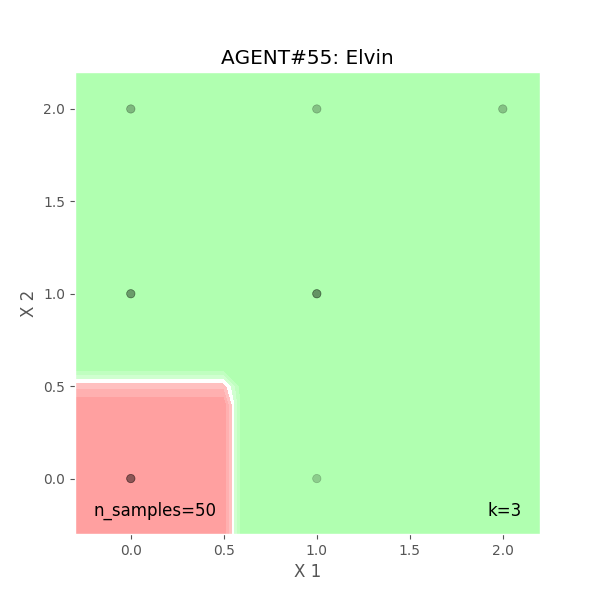
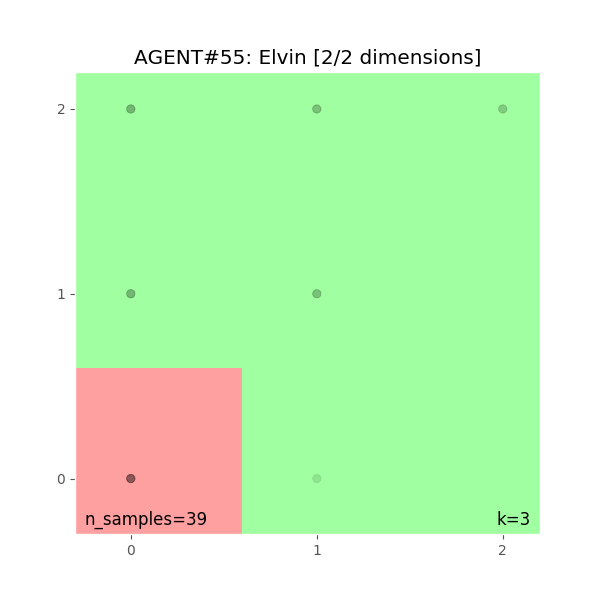
Brain maps on sidebar for all agents

diff --git a/main.py b/main.py
@@ -2,6 +2,8 @@ import pygame
 import random
 import csv
 import agent
+import numpy as np
+import sklearn
 
 names = []
 
@@ -22,17 +24,20 @@ class Window:
 
 		# init display
 		self.display_width = 32*30
-		self.display_height = 32*20
-		self.display = pygame.display.set_mode((self.display_width, self.display_height))
+		self.display_height = 32*30
+		self.side_display_width = 32*20
+		self.side_display_height = 32*0
+		self.display = pygame.display.set_mode((self.display_width+self.side_display_width, self.display_height+self.side_display_height))
 
 		# init misc
 		self.clock = pygame.time.Clock()
-		self.world_speed = 300
+		self.world_speed = 20
 		self.grid_size = 32
+		self.total_steps = 0
 
 		# init focus
-		self.focus = 55 # default = None
-		self.focus_visualize_frequency = 3 # how many steps between
+		self.focus = None # default = None
+		self.focus_visualize_frequency = 5 # how many steps between
 		self.focus_visualize_time = 1 # in seconds
 
 		# init colors
@@ -44,16 +49,21 @@ class Window:
 		self.BLUE = (0, 0, 255)
 		self.YELLOW = (255, 255, 0)
 
+		self.LT_RED = (255, 50, 50)
+		self.LT_GREEN = (50, 255, 50)
+
 		# init font
 		self.FNT_SMALL = pygame.font.SysFont("arial", 11)
+		self.FNT_MEDIUM = pygame.font.SysFont("arial", 14)
 
 		# init dicts
 		self.colors = {0: self.RED, 1: self.GREEN, 2: self.BLUE}
 		self.shapes = {0: "square", 1: "circle", 2: "triangle"}
 		self.sentiments = {-1: "negative", 0: "neutral", 1: "positive"}
+		self.sentiment_colors = {-1: self.LT_RED, 0: self.GRAY, 1: self.LT_GREEN}
 
 		# init agents
-		starting_agents = 64
+		starting_agents = 32
 		self.agents = []
 		for i in range(starting_agents):
 			self.create_agent(i)
@@ -105,14 +115,11 @@ class Window:
 
 					# learn from experiences
 					if brain.total_experiences() > 3:
-						try:
-							brain.learn()
+						brain.learn()
 
-							if agent[0] == self.focus and brain.total_experiences() % self.focus_visualize_frequency == 0:
-								# self.check_agent(agent[0])
-								brain.visualize("AGENT#{}: {}".format(agent[0], agent[1]), time_limit=self.focus_visualize_time)
-						except:
-							pass
+						if agent[0] == self.focus and brain.total_experiences() % self.focus_visualize_frequency == 0:
+							# self.check_agent(agent[0])
+							brain.visualize("AGENT#{}: {}".format(agent[0], agent[1]), time_limit=self.focus_visualize_time)
 	
 			# percieve area
 			potential_cells = eye.look(agent[4], agent[5])
@@ -131,8 +138,11 @@ class Window:
 			# draw agent
 			self.draw_agent(agent[4], agent[5], agent[2], agent[3], agent[0])
 
+		self.display_sidebar(self.display_width+16, 8)
+
 		pygame.display.update()
 		self.clock.tick(self.world_speed)
+		self.total_steps += 1
 
 		pygame.display.set_caption("Seed: {}, FPS: {}".format(seed, round(self.clock.get_fps(),2)))
 
@@ -180,8 +190,9 @@ class Window:
 		eye = agent.Eye()
 		brain = agent.Brain()
 		muscle = agent.Muscle()
+		brain_map = [[0,0,0],[0,0,0],[0,0,0]]
 
-		self.agents.append([number, name, color, shape, start_x, start_y, eye, brain, muscle])
+		self.agents.append([number, name, color, shape, start_x, start_y, eye, brain, muscle, brain_map])
 
 		print("[AGENT#{}] Created! number={}, name={}, color={}, shape={}({}), pos=({}, {})".format(number, number, name, color, shape, self.shapes[shape], start_x, start_y))
 
@@ -209,6 +220,54 @@ class Window:
 		print("Shape: {}".format(self.shapes[agent[3]]))
 		print("Pos: ({}, {})".format(agent[4], agent[5]))
 		print("Experiences: {}".format(agent[7].total_experiences()))
+
+	def display_sidebar(self, x, y):
+		basic_info = self.FNT_MEDIUM.render("Steps: {}".format(self.total_steps), True, self.BLACK)
+		self.display.blit(basic_info, (x,y))
+
+		# brain maps
+		columns = 15
+		rows = (len(self.agents) // columns)+1
+		size = 36
+		num = 0
+		for yy in range(rows):
+			for xx in range(columns):
+
+				if num <= len(self.agents)-1:
+					x1 = x+xx*(size+4)
+					y1 = y+yy*(size+16)+48
+
+					# draw number
+					name = self.FNT_SMALL.render("#{}".format(num), True, self.BLACK)
+					name_rect = name.get_rect(center=(x1+(size/2),y1-8))
+					self.display.blit(name, name_rect)
+
+					# draw base
+					pygame.draw.rect(self.display, self.GRAY, (x1, y1, size, size))
+
+					# draw contour
+					try:
+						for sentx in range(3):
+							for senty in range(3):
+								sent = self.agents[num][7].predict([[sentx, senty]])
+
+								self.agents[num][9][sentx][senty] = sent
+
+								col = self.sentiment_colors[sent]
+
+								pygame.draw.rect(self.display, col, (x1+(sentx*(size/3)), y1+(senty*(size/3)), size/3, size/3))
+
+						# print(self.agents[num][9])
+
+					except sklearn.exceptions.NotFittedError:
+						name = self.FNT_SMALL.render("?", True, self.BLACK)
+						name_rect = name.get_rect(center=(x1+(size/2),y1+(size/2)))
+						self.display.blit(name, name_rect)
+
+					# increment num
+					num += 1
+
+
 
 
 Window = Window()

diff --git a/agent.py b/agent.py
@@ -81,7 +81,7 @@ class Brain:
 			print("Brain: Fitted {} samples [{}s]".format(len(self.y),round(time.time() - start_time,5)))
 
 	def predict(self, X):
-		return(self.clf.predict(X))
+		return self.clf.predict(X)[0]
 
 	def visualize(self, title="", show_text=True, mesh_step_size=0.1, show=True, time_limit=3600):
 		# step size in the mesh
@@ -117,10 +117,12 @@ class Brain:
 		ax.scatter(self.X[:, 0], self.X[:, 1], c=self.y, cmap=cm_bold, marker="o", alpha=0.05)
 		ax.set_xlim(xx.min(), xx.max())
 		ax.set_ylim(yy.min(), yy.max())
-		# ax.set_xticks(())
-		# ax.set_yticks(())
-		ax.set_xlabel("X1")
-		ax.set_ylabel("X2")
+		ax.set_xticks(np.arange(3))
+		ax.set_yticks(np.arange(3))
+
+		plt.gca().invert_yaxis()
+		# ax.set_xlabel("X1")
+		# ax.set_ylabel("X2")
 
 		dimensions = np.shape(self.X)[1]
 
